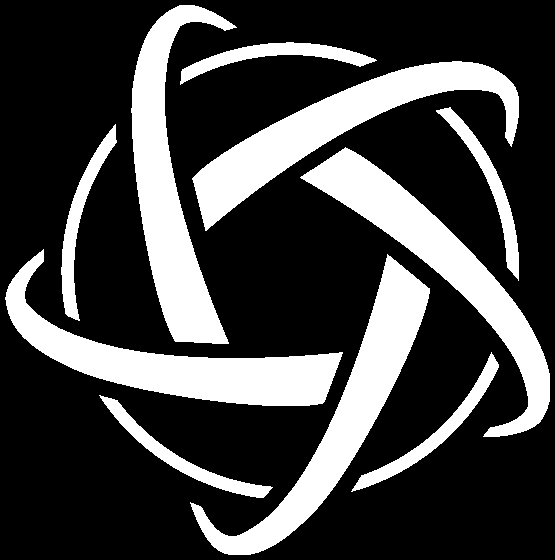
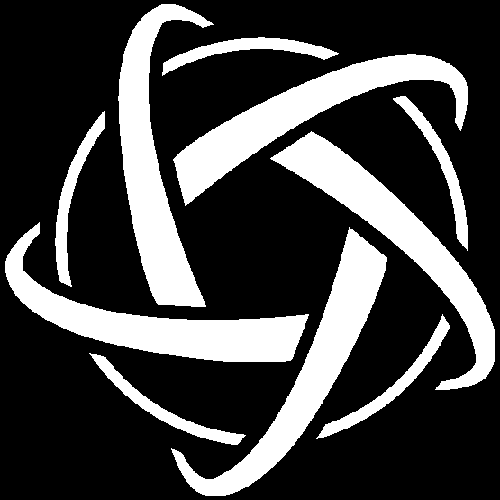
fixed ghost borders and added animations

diff --git a/style.css b/style.css
@@ -1,25 +1,26 @@
-* {margin: 0.5em 0}
+* {margin: 0.5em 0;}
 a {
     text-decoration: none;
     transition: color 0.25s;
 }
-a:link {color: #0FF}
-a:visited {color: #808080}
-a:hover, a:focus {color: #FF0}
-a:focus > .logo, :focus {outline: #F00 2px solid}
+a:link {color: #0FF;}
+a:visited {color: #808080;}
+a:hover, a:focus {color: #FF0;}
+a:focus > .logo, :focus {outline: #F00 2px solid;}
 a:active {color: #F00;}
 body {
     animation: appear 0.5s 1 forwards;
     background-color: #000;
     color: #FFF;
     left: 0;
-    margin: 0 23%;
+    margin: 0 24%;
     min-height: 100%;
     opacity: 0;
     outline: #FFF 5px solid;
     padding: 0 1%;
     position: absolute;
     top: 0;
+    width: 50%;
 }
 /* .credits {
     position: fixed;
@@ -27,23 +28,41 @@ body {
     bottom: 0;
     transform: translate(25%, -25%);
 } */ /* mwehehe */
-h1, h2, small {text-transform: uppercase}
+h1, h2, small {text-transform: uppercase;}
 html {
+    animation: subtle 60s infinite;
     font-family: Consolas, Monaco, Monospace;
-    /*background: #0f0;*/ /*property for testing*/
+/*    background: #0f0;*/ /*property for testing*/
 }
-img {user-select: none}
+img {user-select: none;}
 @keyframes appear {
     0% {opacity: 0;}
     100% {opacity: 1;}
 }
-.logo {
-    bottom: 0%;
-    height: 75px;
-    margin: 0;
-    position: fixed;
-    right: 0%;
-    transform: translate(-25%, -25%);
-    width: 75px;
+@keyframes subtle {
+    0% {background: #000;}
+    10% {background: #200000}
+    20% {background: #000;} 
+    30% {background: #202000}
+    40% {background: #000;}
+    50% {background: #002000}
+    60% {background: #000;}
+    70% {background: #000020}
+    80% {background: #000;}
+    90% {background: #200020}
+    100% {background: #000;}
 }
+.logo {
+    bottom: 10px;
+    height: 50px;
+    margin: 0;
+    position: absolute;
+    right: 10px;
+    width: 50px;
+    transition: background 0.25s;
+}
+a:link > .logo {background: #0FF;}
+a:visited > .logo {background: #808080;}
+a:hover > .logo, a:focus > .logo {background: #FF0;}
+a:active > .logo {background: #F00;}
 ul {list-style-type: "- "}

diff --git a/index.html b/index.html
@@ -7,7 +7,7 @@
     <title>AHS Computer Science Forum</title>
   </head>
   <body>
-    <a href="https://life.allencs.org/" target="_blank"><img class="logo" src="steam.gif" width="75" height="75"></a>
+    <a href="https://life.allencs.org/" target="_blank"><img class="logo" src="steam.png" width="50" height="50"></a>
     <h1>Allen Computer Science</h1>
     <p>The Computer Science Forum at AHS's STEAM Center is dedicated to the exploration of the distinct aspects of technology and programming.</p>
     <hr>
